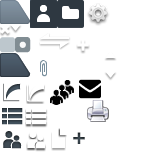
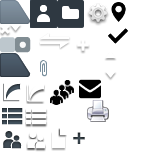
add images for map, q&a tabs

diff --git a/css/style.css b/css/style.css
@@ -542,6 +542,20 @@ select.styled {
 #view-mode span.active[data-value="allmessages"]:before {
 	background-position: -78px -56px;
 }
+#view-mode span[data-value="maps"]:before {
+	background-position: -110px 0;
+}
+#view-mode span:hover[data-value="maps"]:before,
+#view-mode span.active[data-value="maps"]:before {
+	background-position: -130px 0;
+}
+#view-mode span[data-value="questions"]:before {
+	background-position: -106px -25px;
+}
+#view-mode span:hover[data-value="questions"]:before,
+#view-mode span.active[data-value="questions"]:before {
+	background-position: -130px -25px;
+}
 #view-mode span[data-value="parent"]:before {
 	background-position: 0 -128px;
 }
